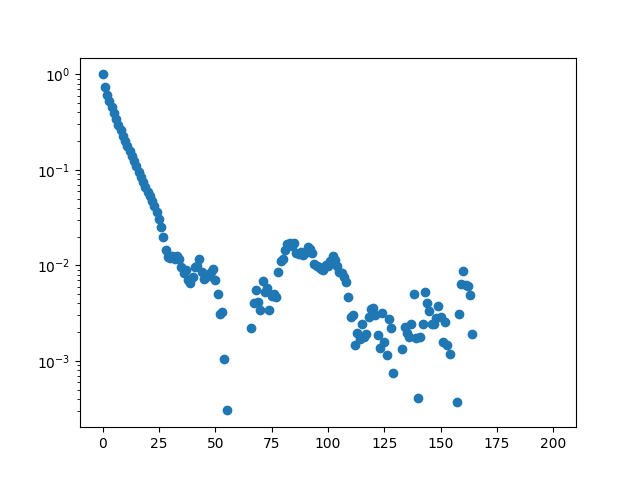
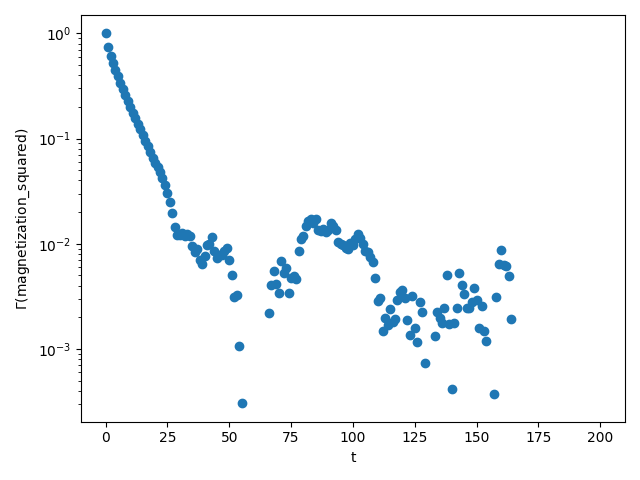
Added new plots

diff --git a/plot/plot.py b/plot/plot.py
@@ -44,7 +44,10 @@ def make_auto_correlation_plot(name, measurements_group_):
     fig_: plt.Figure
     ax_: plt.Axes
     make_auto_correlation_plot_to_ax(name, measurements_group_, ax_)
+    ax_.set_xlabel(r"t")
+    ax_.set_ylabel(r"$\Gamma$("+name+")")
     ax_.set_yscale("log")
+    fig_.set_tight_layout(True)
     return fig_, ax_
 
 
@@ -55,7 +58,8 @@ def make_observable_plot(name, observable_list, observable_error_list):
     ax_.errorbar(inverse_betas, observable_list, observable_error_list, fmt='o')
 
     ax_.set_xlabel(r"1/$\beta$")
-    ax_.set_ylabel(r"m")
+    ax_.set_ylabel(name)
+    fig_.set_tight_layout(True)
     return fig_, ax_
 
 
@@ -75,13 +79,13 @@ energies_errors = []
 energies_squared = []
 energies_squared_errors = []
 
-sub_folder_name = "checker_board_multi_level_hmc_2_levels/"
-# sub_folder_name = "black_white_multi_level_hmc_2_levels/"
+# sub_folder_name = "checker_board_multi_level_hmc_2_levels/"
+sub_folder_name = "black_white_multi_level_hmc_2_levels/"
 # sub_folder_name = "std_hmc/"
 
 for file in os.listdir(sub_folder_name):
     if file.startswith("out_"):
-        file = sub_folder_name + "/" + file
+        file = sub_folder_name + file
         print(file)
         f = h5py.File(file, 'r')
 
